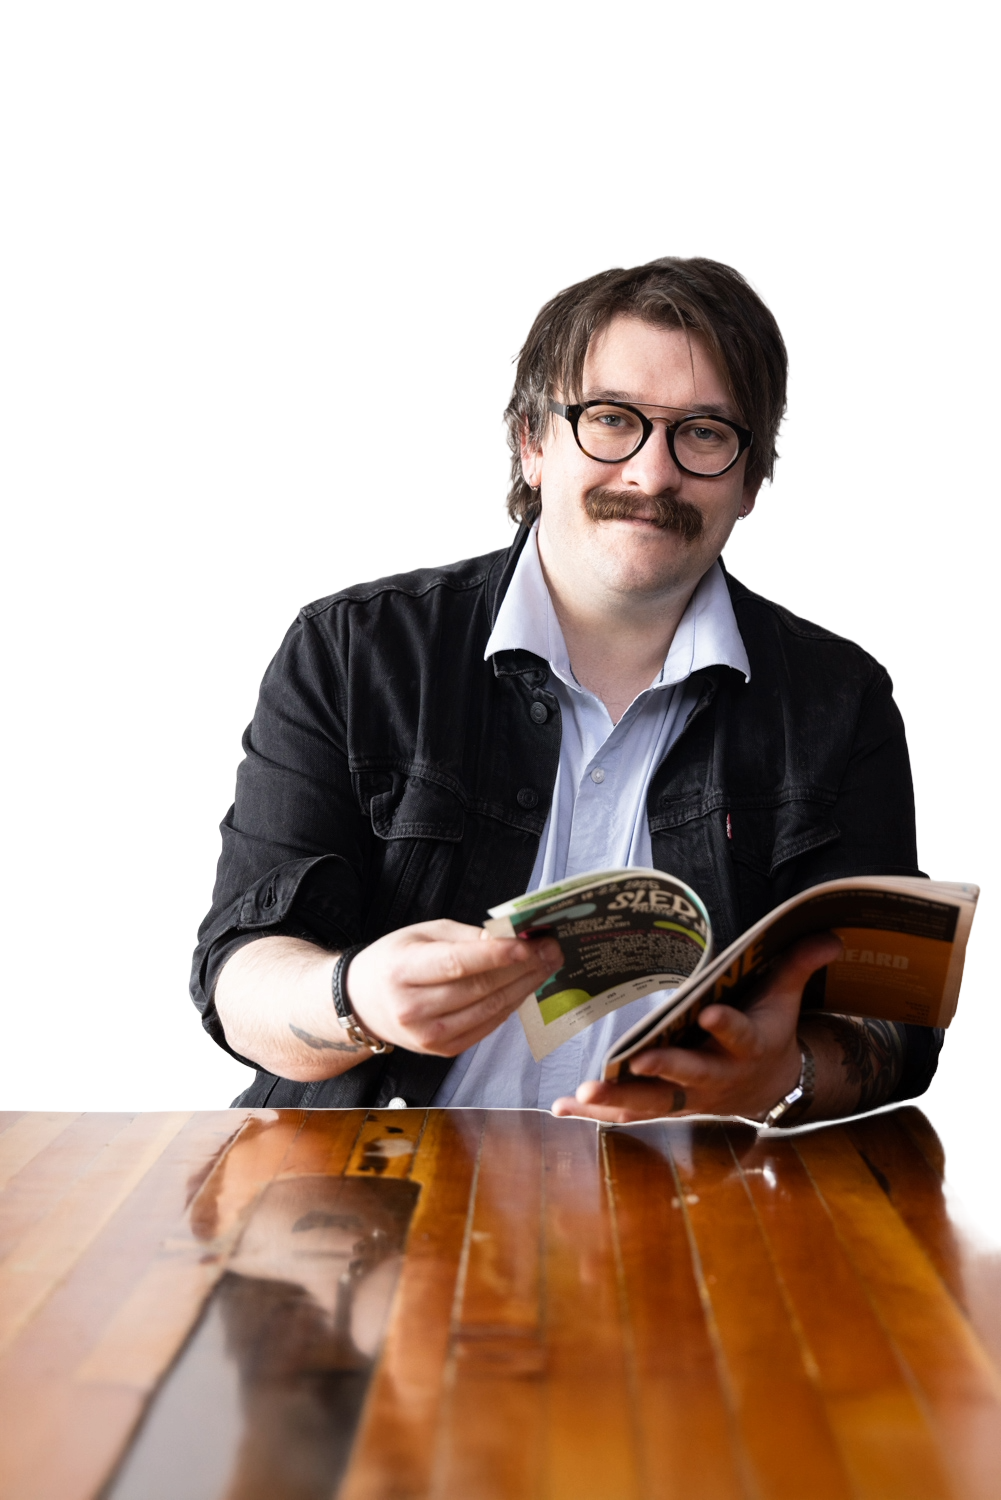
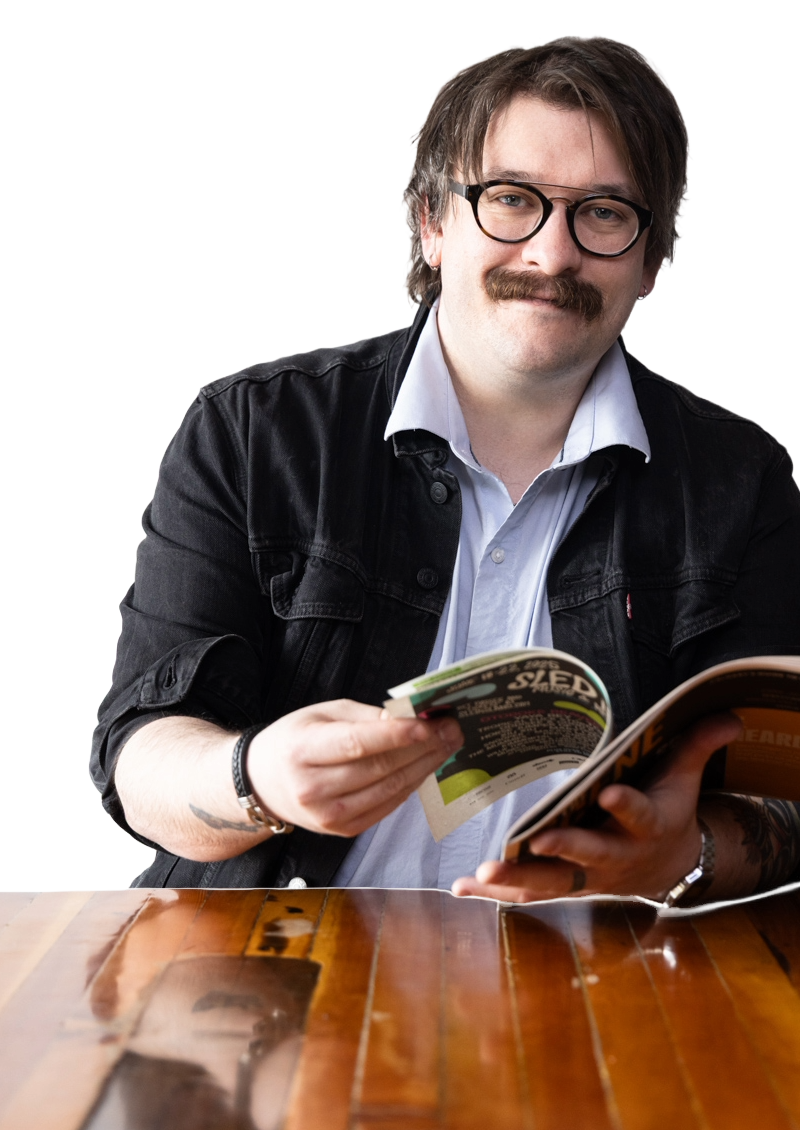
updated headshot

diff --git a/src/components/ScrambleImage.tsx b/src/components/ScrambleImage.tsx
@@ -1,0 +1,171 @@
+"use client";
+
+import { useEffect, useMemo, useRef, useState } from "react";
+
+type ScrambleImageProps = {
+  src: string;
+  width: number; // intrinsic image width (px)
+  height: number; // intrinsic image height (px)
+  progress: number; // 0..1
+  cropTop?: number; // pixels to crop from the top visually (applied as draw offset)
+  resolveAt?: number; // portion of scroll (0..1) by which the image should be fully resolved (default 0.3)
+  className?: string;
+  style?: React.CSSProperties;
+};
+
+function easeInOutCubic(t: number) {
+  return t < 0.5 ? 4 * t * t * t : 1 - Math.pow(-2 * t + 2, 3) / 2;
+}
+
+export default function ScrambleImage({
+  src,
+  width,
+  height,
+  progress,
+  cropTop = 0,
+  resolveAt = 0.3,
+  className,
+  style,
+}: ScrambleImageProps) {
+  const canvasRef = useRef<HTMLCanvasElement | null>(null);
+  const [imgEl, setImgEl] = useState<HTMLImageElement | null>(null);
+
+  // Setup a fixed grid for tiles. More tiles = finer scramble but more work.
+  const cols = 24;
+  const rows = Math.round((cols * (height / width)) || 24);
+  const total = cols * rows;
+
+  // Precompute a random permutation for starting positions
+  const permutation = useMemo(() => {
+    const arr = Array.from({ length: total }, (_, i) => i);
+    for (let i = arr.length - 1; i > 0; i--) {
+      const j = Math.floor(Math.random() * (i + 1));
+      [arr[i], arr[j]] = [arr[j], arr[i]];
+    }
+    return arr;
+  }, [total]);
+
+  // Load the image once
+  useEffect(() => {
+    const im = new Image();
+    im.src = src;
+    const maybeDecode = (im as HTMLImageElement & { decode?: () => Promise<void> }).decode;
+    if (typeof maybeDecode === "function") {
+      maybeDecode
+        .call(im)
+        .then(() => setImgEl(im))
+        .catch(() => {
+          // Fallback to onload if decode fails
+          im.onload = () => setImgEl(im);
+        });
+    } else {
+      im.onload = () => setImgEl(im);
+    }
+  }, [src]);
+
+  // Draw when progress or image changes
+  useEffect(() => {
+    const canvas = canvasRef.current;
+    if (!canvas || !imgEl) return;
+
+    const dpr = typeof window !== "undefined" ? window.devicePixelRatio || 1 : 1;
+
+    // Size the canvas to the displayed CSS size (we'll let CSS control layout width)
+    // We'll set the internal buffer to DPR for crispness
+    const rect = canvas.getBoundingClientRect();
+    const cssW = Math.max(1, rect.width);
+    const cssH = Math.max(1, rect.height);
+    const scaleToFit = cssW / width; // maintain aspect ratio to fit width
+    const targetH = (height * scaleToFit) - cropTop * scaleToFit;
+
+    // If height changed due to responsive layout, adjust canvas element size
+    const bufW = Math.max(1, Math.floor(cssW * dpr));
+    const bufH = Math.max(1, Math.floor(Math.max(cssH, targetH) * dpr));
+    if (canvas.width !== bufW || canvas.height !== bufH) {
+      canvas.width = bufW;
+      canvas.height = bufH;
+    }
+
+    const ctx = canvas.getContext("2d");
+    if (!ctx) return;
+
+    ctx.setTransform(1, 0, 0, 1, 0, 0);
+    ctx.clearRect(0, 0, canvas.width, canvas.height);
+
+    // Scale drawing for DPR and responsive width
+    ctx.scale(dpr * scaleToFit, dpr * scaleToFit);
+
+    // We draw tiles from the source image to the destination at interpolated positions
+    const tileW = width / cols;
+    const tileH = height / rows;
+
+    // Progress with easing and clamp, resolve fully by `resolveAt` (e.g., first 30% of scroll)
+    const p = Math.min(1, Math.max(0, progress));
+    const end = Math.min(1, Math.max(0.01, resolveAt));
+    const local = Math.min(1, p / end);
+    const t = easeInOutCubic(local);
+
+    // As we approach resolved state, shrink jitter radius
+    const jitterMax = (1 - t) * tileW * 0.5; // pixels
+
+    for (let r = 0; r < rows; r++) {
+      for (let c = 0; c < cols; c++) {
+        const idx = r * cols + c; // destination tile index
+        const srcIdx = permutation[idx]; // starting tile index
+
+        // Target (final) tile top-left
+        const tx = c * tileW;
+        const ty = r * tileH;
+
+        // Start (scrambled) tile top-left from random permuted tile
+        const sc = srcIdx % cols;
+        const sr = Math.floor(srcIdx / cols);
+        const sx0 = sc * tileW;
+        const sy0 = sr * tileH;
+
+        // Interpolate position
+        const ix = sx0 + (tx - sx0) * t;
+        const iy = sy0 + (ty - sy0) * t;
+
+        // Add a little jitter that decays to 0 near the end
+        const jx = (Math.random() - 0.5) * 2 * jitterMax;
+        const jy = (Math.random() - 0.5) * 2 * jitterMax;
+
+        // Source crop (from the target tile location)
+        const sX = tx;
+        const sY = ty;
+
+        // Destination where we draw this tile (shift up by cropTop)
+        const dX = ix;
+        const dY = iy - cropTop;
+
+        // Draw tile
+        ctx.drawImage(
+          imgEl,
+          sX, // sx
+          sY, // sy
+          tileW, // sWidth
+          tileH, // sHeight
+          dX + jx, // dx
+          dY + jy, // dy
+          tileW, // dWidth
+          tileH // dHeight
+        );
+      }
+    }
+  }, [imgEl, width, height, cropTop, cols, rows, permutation, progress]);
+
+  const arH = Math.max(1, height - cropTop);
+  const mergedStyle: React.CSSProperties = {
+    width: "100%",
+    height: "auto",
+    // Ensure the canvas has intrinsic height in layout to avoid 0px collapse
+    aspectRatio: `${width} / ${arH}`,
+    display: "block",
+    ...style,
+  };
+
+  return (
+    <canvas ref={canvasRef} className={className} style={mergedStyle} aria-hidden />
+  );
+}

diff --git a/src/app/page.tsx b/src/app/page.tsx
@@ -1,12 +1,14 @@
 "use client";
 
 import Link from "next/link";
-import Image from "next/image";
+// Image import removed; using canvas-based ScrambleImage instead
+import ScrambleImage from "../components/ScrambleImage";
 import { useScrollProgress } from "../hooks/useScramble";
 
 export default function Home() {
   const imgProgress = useScrollProgress(0, 400);
-  const scale = 0.9 + 0.1 * imgProgress; // 0.9 -> 1
+  // Show full-size image (no zoom). Keep a subtle fade-in if desired.
+  const scale = 1;
   const opacity = 0.2 + 0.8 * imgProgress; // 0.2 -> 1
 
   return (
@@ -59,20 +61,18 @@ export default function Home() {
             authentic voice; I&apos;ll help you find it!
           </p>
         </div>
-        <div className="flex items-start justify-end sm:col-span-2 self-start -mt-1 sm:-mt-1.5">
-          <div className="overflow-hidden rounded-lg w-full max-w-[640px] md:max-w-[700px] lg:max-w-[720px]">
-            <Image
+        <div className="flex items-start justify-end sm:col-span-2 self-start">
+          <div className="w-full max-w-[520px] md:max-w-[560px] lg:max-w-[600px]">
+            <ScrambleImage
               src="/headshots/001-transparent.png"
-              alt="Nathan Iles headshot"
               width={720}
               height={720}
-              sizes="(min-width: 1280px) 35vw, (min-width: 1024px) 40vw, (min-width: 640px) 50vw, 100vw"
-              priority
-              className="block will-change-transform w-full h-auto"
+              progress={imgProgress}
+              cropTop={0}
               style={{
-                transform: `translateY(-120px) scale(${scale})`,
+                transform: `scale(${scale})`,
                 transformOrigin: "top right",
-                opacity,
+                opacity: opacity,
                 transition: "transform 120ms linear, opacity 120ms linear",
               }}
             />
